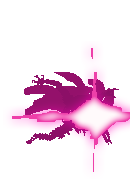
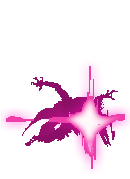
9/9/2023: judgement changes

Changed region(s): [[0.0308, 0.3631, 1.0, 0.9497], [0.6769, 0.2793, 0.7385, 0.3352], [0.1538, 0.7263, 0.1846, 0.7542]]

diff --git a/js/game/model/enemy/judgement/state/JudgementAttackState.js b/js/game/model/enemy/judgement/state/JudgementAttackState.js
@@ -1,15 +1,14 @@
-import JudgementBaseState from "./JudgementBaseState.js";
-import Game from "../../../Game.js";
-import {get_image} from "../../../../helper/fileReader.js";
-import {drawMirroredY} from "../../../../helper/renderer/drawer.js";
-import JudgementBullet from "../JudgementBullet.js";
-
+import JudgementBaseState from './JudgementBaseState.js';
+import Game from '../../../Game.js';
+import { get_image } from '../../../../helper/fileReader.js';
+import { drawMirroredY } from '../../../../helper/renderer/drawer.js';
+import JudgementBullet from '../JudgementBullet.js';
 
 export default class JudgementAttackState extends JudgementBaseState {
     enterState(currJudgement) {
         this.number = 0;
         this.animationStage = 1;
-        this.maxAttackCount = Math.round(Math.random() * 3) + 3;
+        this.maxAttackCount = null || Math.round(Math.random() * 3) + 3;
         this.attackCount = 0;
         this.attacking = false;
         this.attackAngle = Math.PI * Math.random();
@@ -17,7 +16,7 @@ export default class JudgementAttackState extends JudgementBaseState {
 
     updateState(currJudgement) {
         this.number++;
-        if(this.number === 15) {
+        if (this.number === 15) {
             this.number = 0;
             this.animationStage++;
         }
@@ -33,29 +32,27 @@ export default class JudgementAttackState extends JudgementBaseState {
 
         this.attack(currJudgement);
 
-        if(this.animationStage === 8) {
-            this.animationStage -= 2;
+        if (this.animationStage === 7) {
+            this.animationStage -= 3;
             this.attackCount++;
         }
 
-        if(this.animationStage === 6) {
+        if (this.animationStage === 4) {
             this.attacking = true;
         }
 
-
-        if(this.attackCount === this.maxAttackCount) {
+        if (this.attackCount === this.maxAttackCount) {
             currJudgement.switchState(currJudgement.moveState);
         }
-
     }
 
     attack(currJudgement) {
-        if(this.attacking && this.number % 2 === 0) {
-            this.attackAngle += ((1 / 30) * Math.PI + Math.random() * (1 / 15) * Math.PI);
+        if (this.attacking && this.number % 2 === 0) {
+            this.attackAngle += (2 / 30) * Math.PI + Math.random() * (1 / 45) * Math.PI;
 
             let offset = 60;
-            if(currJudgement.angle > Math.PI / 2 || currJudgement.angle < -Math.PI / 2) {
-                offset = 30;
+            if (currJudgement.angle > Math.PI / 2 || currJudgement.angle < -Math.PI / 2) {
+                offset = 35;
             }
             JudgementBullet.generate({
                 x: currJudgement.position.x + currJudgement.width / 2 + offset,
@@ -74,7 +71,7 @@ export default class JudgementAttackState extends JudgementBaseState {
     drawImage(currJudgement) {
         const ctx = Game.getInstance().canvasCtx;
         get_image('boss/attack', 'judgement_attack', this.animationStage, (img) => {
-            if(currJudgement.angle > Math.PI / 2 || currJudgement.angle < -Math.PI / 2) {
+            if (currJudgement.angle > Math.PI / 2 || currJudgement.angle < -Math.PI / 2) {
                 drawMirroredY({
                     canvas: ctx,
                     img: img,
@@ -84,16 +81,9 @@ export default class JudgementAttackState extends JudgementBaseState {
                     },
                     width: img.width * 2,
                     height: img.height * 2,
-                })
-            }
-            else {
-                ctx.drawImage(
-                    img,
-                    currJudgement.position.x,
-                    currJudgement.position.y,
-                    img.width * 2,
-                    img.height * 2
-                );
+                });
+            } else {
+                ctx.drawImage(img, currJudgement.position.x, currJudgement.position.y, img.width * 2, img.height * 2);
             }
         });
     }

diff --git a/js/game/model/enemy/judgement/state/JudgementDashState.js b/js/game/model/enemy/judgement/state/JudgementDashState.js
@@ -1,0 +1,83 @@
+import JudgementBaseState from './JudgementBaseState.js';
+import Game from '../../../Game.js';
+import { get_image } from '../../../../helper/fileReader.js';
+import { drawMirroredY } from '../../../../helper/renderer/drawer.js';
+import judgementDashDrawer from '../../../../helper/boss/judgmenentDashDrawer.js';
+
+export default class JudgementDashState extends JudgementBaseState {
+    lastData = [];
+    enterState(currJudgement) {
+        this.number = 0;
+        this.animationStage = 1;
+        this.flyTime = 15;
+        this.destination = currJudgement.attackPosition[Math.floor(Math.random() * currJudgement.attackPosition.length)];
+    }
+
+    updateState(currJudgement) {
+        this.number++;
+
+        if (this.number === 15) {
+            this.number = 0;
+            this.animationStage++;
+        }
+        const player = Game.getInstance().player;
+        currJudgement.angle = Math.atan2(player.position.y - (currJudgement.position.y + currJudgement.height + 40), player.position.x - (currJudgement.position.x + currJudgement.width / 2));
+        this.angle = Math.atan2(this.destination.y - (currJudgement.position.y + currJudgement.height / 2), this.destination.x - (currJudgement.position.x + currJudgement.width / 2));
+
+        const dist = Math.sqrt(Math.pow(this.destination.x - (currJudgement.position.x + currJudgement.width / 2), 2) + Math.pow(this.destination.y - (currJudgement.position.y + currJudgement.height / 2), 2));
+        if (Math.abs(dist) < 20) {
+            currJudgement.handleSwitchState({
+                move: false,
+                moveTwo: false,
+                attack: true,
+                laser: true,
+            });
+        }
+
+        currJudgement.position.x += Math.cos(this.angle) * this.flyTime;
+        currJudgement.position.y += Math.sin(this.angle) * this.flyTime;
+
+        const angle = currJudgement.angle;
+        const data = {
+            canvas: Game.getInstance().canvasCtx,
+            moveNumber: this.animationStage,
+            angle: angle,
+            lastPosition: { ...currJudgement.position },
+        };
+
+        // judgementDashDrawer(data);
+        if (this.number % 5 === 0) {
+            this.lastData.push(data);
+        }
+        if (this.lastData.length > 3) {
+            this.lastData.shift();
+        }
+    }
+
+    drawImage(currJudgement) {
+        const ctx = Game.getInstance().canvasCtx;
+
+        for (let i = 0; i < this.lastData.length; i++) {
+            ctx.globalAlpha = 1 - (this.lastData.length - i) / this.lastData.length;
+            judgementDashDrawer(this.lastData[i]);
+        }
+        ctx.globalAlpha = 1;
+
+        get_image('boss/move', 'judgement_move', (this.animationStage % 3) + 1, (img) => {
+            if (currJudgement.angle > Math.PI / 2 || currJudgement.angle < -Math.PI / 2) {
+                drawMirroredY({
+                    canvas: ctx,
+                    img: img,
+                    position: {
+                        x: currJudgement.position.x,
+                        y: currJudgement.position.y,
+                    },
+                    width: img.width * 2,
+                    height: img.height * 2,
+                });
+            } else {
+                ctx.drawImage(img, currJudgement.position.x, currJudgement.position.y, img.width * 2, img.height * 2);
+            }
+        });
+    }
+}

diff --git a/js/game/helper/boss/judgmenentDashDrawer.js b/js/game/helper/boss/judgmenentDashDrawer.js
@@ -1,39 +1,27 @@
 import {get_image} from "../fileReader.js";
-import {drawMirroredY, drawRotated} from "./drawer.js";
+import {drawMirroredY} from "../renderer/drawer.js";
 
 
-export default function judgementDashDrawer({canvas, currPosition, dashNumber, angle, lastPosition, direction, filter}) {
-    if(filter) canvas.filter = filter;
-    if (dashNumber < 4 && !filter) {
-        get_image("player/dash/animation", "dash_animation", dashNumber, (img) => {
-            drawRotated({ canvas: canvas, img: img, angle: angle + Math.PI, position: {
-                    x: lastPosition.x + 35,
-                    y: lastPosition.y + 45
-                } });
-
-        });
-    }
-    if (direction === "w") {
-        return get_image("player/dash", "dash_up", dashNumber, function (img) {
-            canvas.drawImage(img, currPosition.x - 25, currPosition.y - 10, img.width * 2, img.height * 2);
-        });
-    }
-    if (direction === "d") {
-        return get_image("player/dash", "dash_side", dashNumber, function (img) {
-            canvas.drawImage(img, currPosition.x - 25, currPosition.y - 10, img.width * 2, img.height * 2);
-        });
-    }
-    if (direction === "a") {
-        return get_image("player/dash", "dash_side", dashNumber, function (img) {
-            drawMirroredY({ canvas: canvas, img: img, position: {
-                    x: currPosition.x - 25,
-                    y: currPosition.y - 10
-                }});
-        });
-    }
-    if (direction === "s") {
-        return get_image("player/dash", "dash_down", dashNumber, function (img) {
-            canvas.drawImage(img, currPosition.x - 25, currPosition.y - 10, img.width * 2, img.height * 2);
-        });
-    }
+export default function judgementDashDrawer({canvas, moveNumber, angle, lastPosition}) {
+    get_image("boss/move", "judgement_move", (moveNumber % 3) + 1, (img) => {
+        if(angle > Math.PI / 2 || angle < -Math.PI / 2) {
+            drawMirroredY({
+                canvas: canvas,
+                img: img,
+                position: {
+                    x: lastPosition.x,
+                    y: lastPosition.y,
+                },
+            });
+        }
+        else {
+            canvas.drawImage(
+                img,
+                lastPosition.x,
+                lastPosition.y,
+                img.width * 2,
+                img.height * 2
+            );
+        }
+    });
 }

diff --git a/js/game/model/enemy/judgement/Judgement.js b/js/game/model/enemy/judgement/Judgement.js
@@ -5,7 +5,7 @@ import Game from "../../Game.js";
 import JudgementMoveState from "./state/JudgementMoveState.js";
 import JudgementAttackState from "./state/JudgementAttackState.js";
 import JudgementLaserState from "./state/JudgementLaserState.js";
-import JudgementMoveTwoState from "./state/JudgementMoveTwoState.js";
+import JudgementDashState from "./state/JudgementDashState.js";
 
 
 export default class Judgement extends Enemy {
@@ -19,6 +19,7 @@ export default class Judgement extends Enemy {
                 { x: 500, y: 750 },
                 { x: 1300, y: 250 },
                 { x: 1300, y: 750 },
+                { x: 900, y: 500 },
             ]
         });
         Game.getInstance().enemyList.push(newJudgement);
@@ -46,7 +47,7 @@ export default class Judgement extends Enemy {
         this.currState = new JudgementBaseState();
         this.spawnState = new JudgementSpawnState();
         this.moveState = new JudgementMoveState();
-        this.moveTwoState = new JudgementMoveTwoState();
+        this.dashState = new JudgementDashState();
         this.attackState = new JudgementAttackState();
         this.laserState = new JudgementLaserState();
 
@@ -59,23 +60,24 @@ export default class Judgement extends Enemy {
         this.currState.enterState(this);
     }
 
-    // switchStateHandler({ move, attack, laser }){
-    //     if(move) {
-    //         this.switchState(this.moveState);
-    //     }
-    //     else if(attack) {
-    //         this.switchState(this.attackState);
-    //     }
-    //     else if(laser) {
-    //         this.switchState(this.laserState);
-    //     }as
-    // }
+    handleSwitchState({ move, dash, attack, laser }){
+        if(Math.random() < 0.6 && dash) {
+            this.switchState(this.dashState);
+        }
+        else {
+            if(Math.random() < 0.5 && attack && false) {
+                this.switchState(this.attackState);
+            }
+            else if(laser) {
+                this.switchState(this.laserState);
+            }
+        }
+    }
 
     update() {
         this.currState.updateState(this);
         this.currState.drawImage(this);
 
-        console.log(Game.getInstance().player.position)
 
         Game.getInstance().canvasCtx.fillStyle = 'rgb(255, 255, 255, 0.1)';
         Game.getInstance().canvasCtx.fillRect(this.position.x, this.position.y, this.width * 2, this.height * 2);

diff --git a/js/game/model/enemy/judgement/state/JudgementLaserState.js b/js/game/model/enemy/judgement/state/JudgementLaserState.js
@@ -8,9 +8,9 @@ export default class JudgementLaserState extends JudgementBaseState {
     enterState(currJudgement) {
         this.number = 0;
         this.animationStage = 1;
-        this.maxAttackCount = Math.round(Math.random() * 3) + 3;
+        this.maxAttackCount = Math.round(Math.random() * 3) + 1;
         this.attackCount = 0;
-        this.attacking = 10;
+        this.attacking = 5;
         this.attackAngle = currJudgement.angle;
     }
 
@@ -32,7 +32,7 @@ export default class JudgementLaserState extends JudgementBaseState {
 
 
 
-       if(this.attacking !== 10 && this.attacking !== 0) {
+       if(this.attacking !== 5 && this.animationStage < 12) {
            let offset = 75;
            if(currJudgement.angle > Math.PI / 2 || currJudgement.angle < -Math.PI / 2) {
                offset = -40;
@@ -47,10 +47,10 @@ export default class JudgementLaserState extends JudgementBaseState {
         if(this.animationStage === 8 && this.number % 14 === 0) {
             this.attacking--;
         }
-        if (this.animationStage === 10 && this.attacking > 0) {
-            this.animationStage -= 2;
+        if (this.animationStage === 12 && this.attacking > 0) {
+            this.animationStage -= 4;
         }
-        if(this.animationStage === 12) {
+        if(this.animationStage === 13) {
             currJudgement.switchState(currJudgement.moveState);
         }
 
@@ -58,7 +58,7 @@ export default class JudgementLaserState extends JudgementBaseState {
 
     drawImage(currJudgement) {
         const ctx = Game.getInstance().canvasCtx;
-        get_image('boss/laser', 'judgement_laser', (this.animationStage % 11) + 1, (img) => {
+        get_image('boss/laser', 'judgement_laser', (this.animationStage % 13) + 1, (img) => {
             if(currJudgement.angle > Math.PI / 2 || currJudgement.angle < -Math.PI / 2) {
                 drawMirroredY({
                     canvas: ctx,

diff --git a/js/game/model/enemy/judgement/state/JudgementMoveState.js b/js/game/model/enemy/judgement/state/JudgementMoveState.js
@@ -29,13 +29,12 @@ export default class JudgementMoveState extends JudgementBaseState {
         }
 
         if(this.walkTime <= this.animationStage) {
-            const rng = Math.random();
-            if(rng < 0.5 || true) {
-                currJudgement.switchState(currJudgement.moveTwoState);
-            }
-            else {
-                currJudgement.switchState(currJudgement.laserState);
-            }
+            currJudgement.handleSwitchState({
+                move: true,
+                dash: true,
+                attack: true,
+                laser: true,
+            });
         }
     }
 

diff --git a/js/game/helper/player/playerInput.js b/js/game/helper/player/playerInput.js
@@ -3,6 +3,7 @@ import Game from '../../model/Game.js';
 export default function playerInput() {
     console.log("hai")
     $(document).keydown((e) => {
+        console.log("hai")
         if (e.key === 'a' || e.key === 'w' || e.key === 'd' || e.key === 's' || e.key === 's' || e.key === 'e' || e.key === 'c'  || e.key === 'c') {
             if (Game.getInstance().keys.includes(e.key)) {
                 return;

diff --git a/js/game/model/enemy/judgement/JudgementBullet.js b/js/game/model/enemy/judgement/JudgementBullet.js
@@ -8,7 +8,7 @@ export default class JudgementBullet extends Enemy {
             x,
             y,
             velocity: {
-                value: 3 + Math.random() * 2,
+                value: 5 + Math.random() * 1,
                 angle: angle,
             },
             lifetime: 200 + Math.random() * 200,
